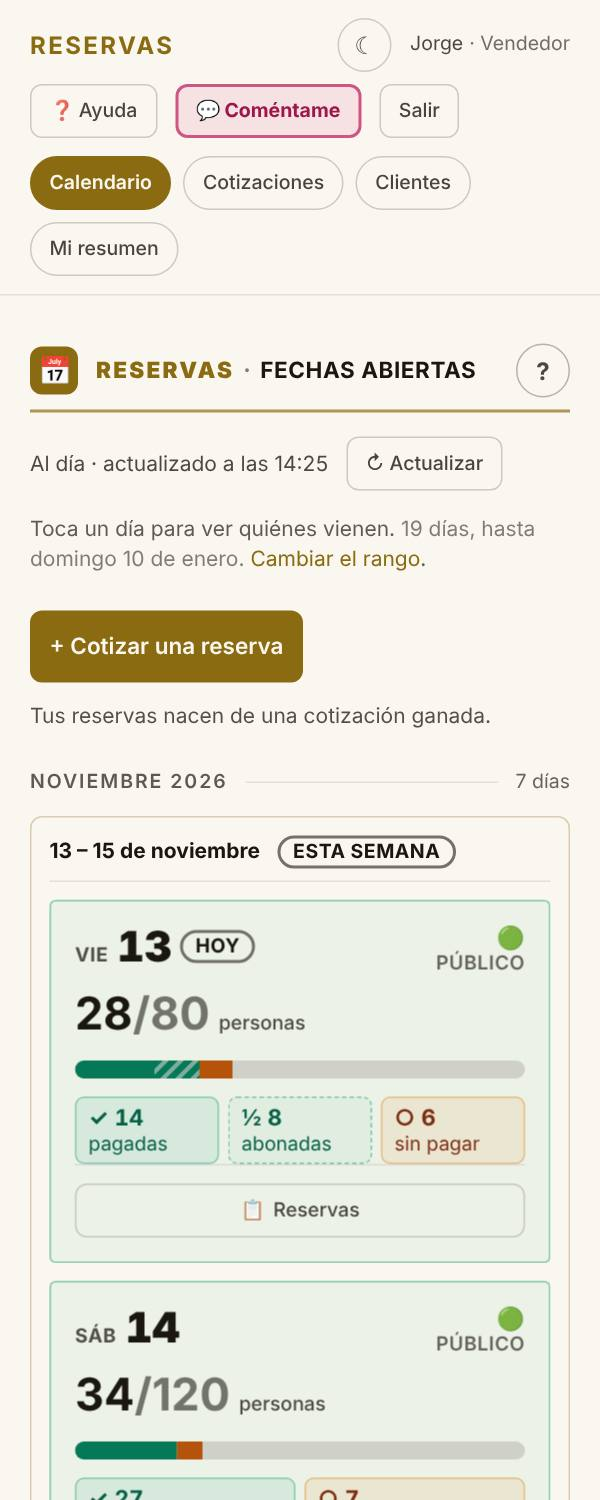
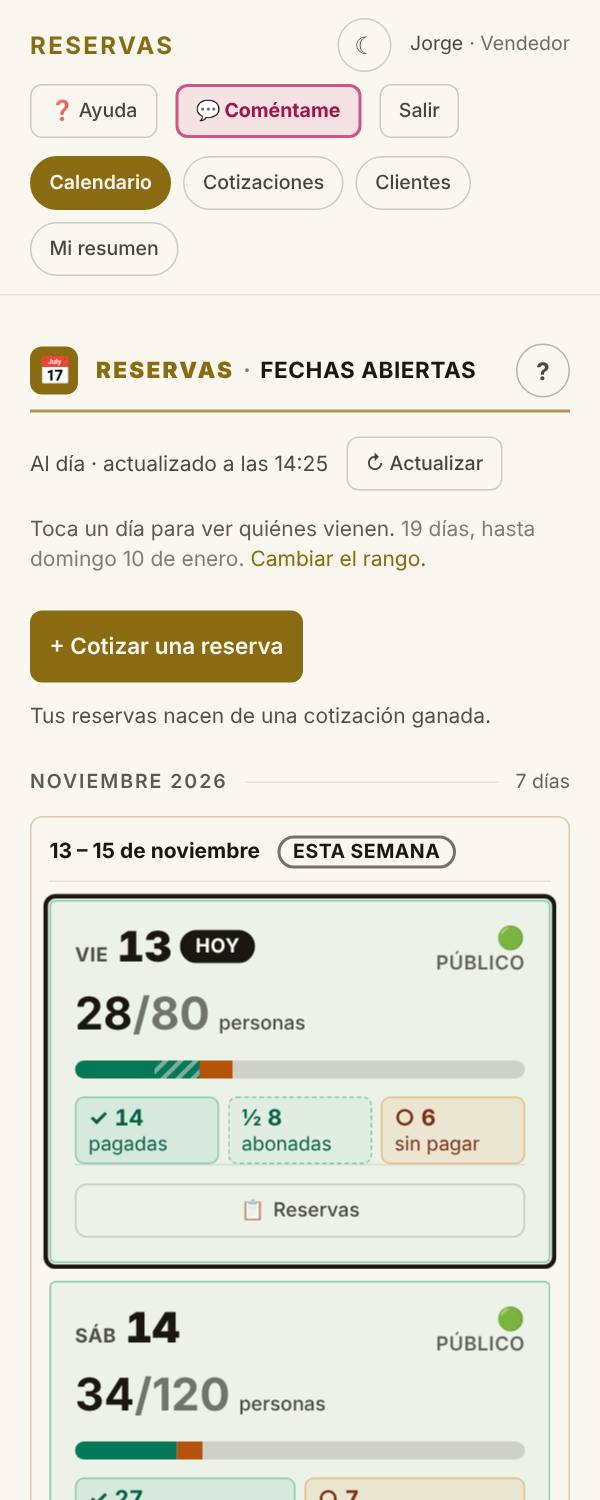
Hoy, bien marcado en los cuatro calendarios
Lo pidió el cliente: la pastilla HOY estaba bien, pero el día de hoy tenía
que verse de un vistazo, sobre todo en Turnos y Extras. La tarjeta o la
celda de hoy lleva un borde grueso del color del texto (MARCO_HOY, un
outline que no mueve nada de lugar) y la pastilla HOY va rellena; ESTA
SEMANA sigue delineada. Igual en Reservas, Cotizaciones, Turnos y Extras,
al tamaño de cada uno. Neutro y no dorado: en Cotizaciones el dorado ya
dice "el día que abriste". La captura de la misión del calendario del
vendedor, al día.

Claude-Session: https://claude.ai/code/session_01SbCpLYfntmdHmiP7MEtaZ6

Changed region(s): [[0.06, 0.5827, 0.93, 0.8587]]

diff --git a/panel/src/components/FechaDia.tsx b/panel/src/components/FechaDia.tsx
@@ -26,14 +26,28 @@ import { diaSemana, enPalabras, hoy } from '@/lib/fechas';
  * de la semana. El color queda para lo que significa algo: el estado del día
  * y los avisos.
  */
-export function MarcaAhora({ children }: { children: ReactNode }) {
+export function MarcaAhora({ children, relleno = false }: { children: ReactNode;
+  /** *HOY* va relleno (2026-11-13): más fuerte que *ESTA SEMANA*, delineada. */
+  relleno?: boolean }) {
   return (
-    <span className="inline-block whitespace-nowrap rounded-full border-2 border-hueso/60 px-2 py-px
-                     text-[13px] font-bold uppercase leading-tight tracking-wide text-hueso">
+    <span className={`inline-block whitespace-nowrap rounded-full border-2 border-hueso/60 px-2 py-px
+                     text-[13px] font-bold uppercase leading-tight tracking-wide ${relleno
+                       ? '!border-hueso bg-hueso text-tinta' : 'text-hueso'}`}>
       {children}
     </span>
   );
 }
+
+/**
+ * **Hoy, bien marcado** (2026-11-13, lo pidió el cliente: la pastilla *HOY*
+ * estaba bien, *"pero ayuda mucho si está bien marcado el día hoy"*). Un
+ * borde grueso del color del texto alrededor de la tarjeta o la celda de
+ * hoy, **el mismo en los cuatro calendarios** (Reservas, Cotizaciones,
+ * Turnos y Extras). Neutro a propósito: el dorado ya quiere decir *el día
+ * que abriste*. Es `outline`, así que no mueve nada de lugar, y va encima
+ * de las celdas vecinas.
+ */
+export const MARCO_HOY = 'relative z-[1] outline outline-[3px] outline-offset-1 outline-hueso';
 
 const DIAS = ['Dom', 'Lun', 'Mar', 'Mié', 'Jue', 'Vie', 'Sáb'];
 const MESES = ['ene', 'feb', 'mar', 'abr', 'may', 'jun', 'jul', 'ago', 'sep', 'oct', 'nov', 'dic'];
@@ -63,7 +77,7 @@ export default function FechaDia({ fecha, tamano = 'tarjeta', chica = false, con
       {conMes && (
         <span aria-hidden className="text-[13px] font-semibold opacity-75">{MESES[Number(fecha.slice(5, 7)) - 1]}</span>
       )}
-      {t !== 'aviso' && fecha === hoy() && <span className="self-center"><MarcaAhora>hoy</MarcaAhora></span>}
+      {t !== 'aviso' && fecha === hoy() && <span className="self-center"><MarcaAhora relleno>hoy</MarcaAhora></span>}
     </span>
   );
 }

diff --git a/panel/src/components/TarjetaDia.tsx b/panel/src/components/TarjetaDia.tsx
@@ -37,7 +37,8 @@ import type { Ocupacion } from '@/lib/tipos';
 import { textoFaltantes, type ResumenEquipo } from '@/lib/equipo';
 import { enPesos } from '@/lib/ocupacion';
 import PuntoDia from './PuntoDia';
-import FechaDia from './FechaDia';
+import FechaDia, { MARCO_HOY } from './FechaDia';
+import { hoy } from '@/lib/fechas';
 import Clima from './Clima';
 import type { Clima as DatoClima } from '@/lib/clima';
 
@@ -224,7 +225,7 @@ export default function TarjetaDia({
         style={{ transform: volteada ? 'rotateY(180deg)' : undefined }}>
 
         {/* ---------- el frente: la ocupación ---------- */}
-        <div className={`${CARA} ${COLOR_TARJETA(d)} ${volteada ? 'pointer-events-none' : ''}`}
+        <div className={`${CARA} ${COLOR_TARJETA(d)} ${d.fecha === hoy() ? MARCO_HOY : ''} ${volteada ? 'pointer-events-none' : ''}`}
              aria-hidden={volteada}>
           <div className="flex items-start justify-between gap-2">
             {/* **El pronóstico ya no va acá.** Estaba bajo la fecha a 10px,
@@ -454,7 +455,7 @@ export default function TarjetaDia({
         {/* ---------- el dorso: el equipo ---------- */}
         {conEquipo && (
         <div
-          className={`${CARA} border-hueso/15 bg-panel [transform:rotateY(180deg)] ${
+          className={`${CARA} border-hueso/15 bg-panel [transform:rotateY(180deg)] ${d.fecha === hoy() ? MARCO_HOY : ''} ${
             volteada ? '' : 'pointer-events-none'}`}
           aria-hidden={!volteada}>
           <div className="flex items-start justify-between gap-2">

diff --git a/panel/src/components/CotizacionesVista.tsx b/panel/src/components/CotizacionesVista.tsx
@@ -37,7 +37,7 @@ import { puede, puedeTocarPresupuesto, esSuya, ROL, type Rol } from '@/lib/auth'
 import EsperandoRespuesta, { type PorSeguir } from './EsperandoRespuesta';
 import type { Ocupacion } from '@/lib/tipos';
 import PuntoDia, { PuntoYPalabra } from './PuntoDia';
-import FechaDia, { MarcaAhora } from './FechaDia';
+import FechaDia, { MarcaAhora, MARCO_HOY } from './FechaDia';
 import BandaSeccion, { TONO } from './BandaSeccion';
 import { BarraDia, COLOR_TARJETA } from './TarjetaDia';
 
@@ -398,7 +398,7 @@ export default function CotizacionesVista() {
          y el botón en un pie separado por una línea. Encima de eso, lo que es
          propio de Cotizaciones: las pastillas de lo cotizado. */
       <div key={f} className={`flex h-full min-w-0 flex-col rounded border p-4 ${occ ? COLOR_TARJETA(occ) : 'border-hueso/15 bg-panel'}
-        ${abiertaEsta ? 'ring-2 ring-oro' : ''}`}>
+        ${abiertaEsta ? 'ring-2 ring-oro' : ''} ${f === hoy ? MARCO_HOY : ''}`}>
         <button type="button" onClick={() => setDiaAbierto(abiertaEsta ? null : f)}
           aria-expanded={abiertaEsta}
           className="tecla flex flex-1 flex-col items-stretch gap-3 rounded text-left">

diff --git a/panel/src/components/CalendarioExtras.tsx b/panel/src/components/CalendarioExtras.tsx
@@ -29,7 +29,7 @@ import { Aviso } from './CalendarView';
 import ExtrasDialogo from './ExtrasDialogo';
 import { COLOR_TARJETA } from './TarjetaDia';
 import { partesDelDia } from './PuntoDia';
-import FechaDia from './FechaDia';
+import FechaDia, { MARCO_HOY } from './FechaDia';
 import BandaSeccion, { TONO } from './BandaSeccion';
 import Clima, { usePronostico } from './Clima';
 import { costoDeExtra, extrasDelDia, costoExtrasDelDia, actividadesConocidas,
@@ -383,7 +383,7 @@ export default function CalendarioExtras({ dia }: { dia?: string } = {}) {
                 className={`flex min-h-[104px] flex-col items-stretch justify-start
                             overflow-hidden rounded border p-2
                             text-left align-top text-[13px] leading-snug transition
-                            hover:border-oro
+                            hover:border-oro ${f === hoy() ? MARCO_HOY : ''}
                             ${oc ? COLOR_TARJETA(oc) : 'border-hueso/10 bg-panel'}`}>
                 {/* Las mismas tres líneas fijas de Turnos: la fecha y el punto,
                     el pronóstico, y la palabra del estado con todo el ancho. */}

diff --git a/panel/src/components/CalendarioEquipo.tsx b/panel/src/components/CalendarioEquipo.tsx
@@ -27,7 +27,7 @@
 import AvisoFijo from './AvisoFijo';
 import { useEffect, useMemo, useState } from 'react';
 import Ayuda from './Ayuda';
-import FechaDia from './FechaDia';
+import FechaDia, { MARCO_HOY } from './FechaDia';
 import { PastillaCotizado } from './Pastilla';
 import BandaSeccion, { TONO } from './BandaSeccion';
 import { Aviso } from './CalendarView';
@@ -253,7 +253,7 @@ export default function CalendarioEquipo({ dia }: { dia?: string } = {}) {
                           overflow-hidden rounded border p-2
                           text-left align-top
                           text-[13px] leading-snug transition
-                          hover:border-oro disabled:opacity-40
+                          hover:border-oro disabled:opacity-40 ${f === hoy() ? MARCO_HOY : ''}
                           ${preparando ? 'border-cafe/50 bg-cafe/[0.06]'
                              : oc ? COLOR_TARJETA(oc)
                                   : 'border-hueso/10 bg-panel'}`}>

diff --git a/panel/src/components/DiaCompacto.tsx b/panel/src/components/DiaCompacto.tsx
@@ -17,7 +17,8 @@
  */
 import { MarcaCambio } from './AlDia';
 import type { Ocupacion } from '@/lib/tipos';
-import FechaDia from './FechaDia';
+import FechaDia, { MARCO_HOY } from './FechaDia';
+import { hoy } from '@/lib/fechas';
 import PuntoDia from './PuntoDia';
 import { COLOR_TARJETA, sinConfigurar } from './TarjetaDia';
 
@@ -32,7 +33,7 @@ export default function DiaCompacto({ d, onAbrir, cambio }: {
     <button type="button" onClick={onAbrir}
       title="Ampliar la semana"
       className={`tecla relative flex w-full min-w-0 flex-col gap-1.5 rounded-xl border-2 px-3 py-2
-                  text-left hover:border-oro/70 ${COLOR_TARJETA(d)}`}>
+                  text-left hover:border-oro/70 ${COLOR_TARJETA(d)} ${d.fecha === hoy() ? MARCO_HOY : ''}`}>
       {cambio && <MarcaCambio {...cambio} />}
       {/* Arriba la fecha y el estado; abajo la barra y cuánta gente. En
           dos líneas para que la fecha no se corte en una columna angosta. */}

diff --git a/panel/CLAUDE.md b/panel/CLAUDE.md
@@ -51,7 +51,7 @@ revisan antes de cada cambio en esta carpeta.
   | Dato | Pieza |
   |---|---|
   | El título de una sección | `BandaSeccion` (con su tono) |
-  | La fecha de un día, y *hoy* / *esta semana* | `FechaDia` + `MarcaAhora` |
+  | La fecha de un día, y *hoy* / *esta semana* | `FechaDia` + `MarcaAhora` (*HOY* relleno) y `MARCO_HOY` alrededor de la tarjeta o celda de hoy |
   | El estado del día (público, privado, exclusivo, cerrado…) | `PuntoDia` / `PuntoYPalabra` y `COLOR_TARJETA` |
   | Lo cotizado (solo lo mandado) y la gente posible, ganadas, esperando, lo tuyo sin mandar | `Pastilla` / `PastillaCotizado` |
   | Cómo va el pago de una reserva | `PastillaPago` |
@@ -6280,6 +6280,17 @@ Cotizaciones quiere decir *día abierto*—, y Reservas no marcaba hoy. Ahora:
   caja que las otras. El tono sigue entero en la banda del título.
 - **El color queda para lo que significa algo**: el estado del día en la
   tarjeta y los avisos.
+- **Hoy, más marcado** (2026-11-13, segunda vuelta; lo pidió el cliente:
+  la pastilla *"está bien… pero ayuda mucho si está bien marcado el día
+  hoy"*, sobre todo en Turnos y Extras). La tarjeta o la celda de hoy lleva
+  **un borde grueso del color del texto** alrededor (`MARCO_HOY` en
+  `FechaDia.tsx`: `outline` de 3px, que no mueve nada de lugar y va encima
+  de las celdas vecinas), y la pastilla ***HOY*** va **rellena**
+  (`MarcaAhora relleno`); *ESTA SEMANA* sigue delineada. Igual en los
+  cuatro calendarios —las tarjetas de Reservas (las dos caras y la
+  compacta), Cotizaciones, y las celdas de Turnos y Extras—, al tamaño de
+  cada uno. **Neutro y no dorado**: en Cotizaciones el anillo dorado ya
+  dice *el día que abriste*, y los dos pueden estar a la vez.
 
 **Los pendientes son de cada cuenta** (`CotizacionesVista`, rótulo *Tus
 pendientes*):
